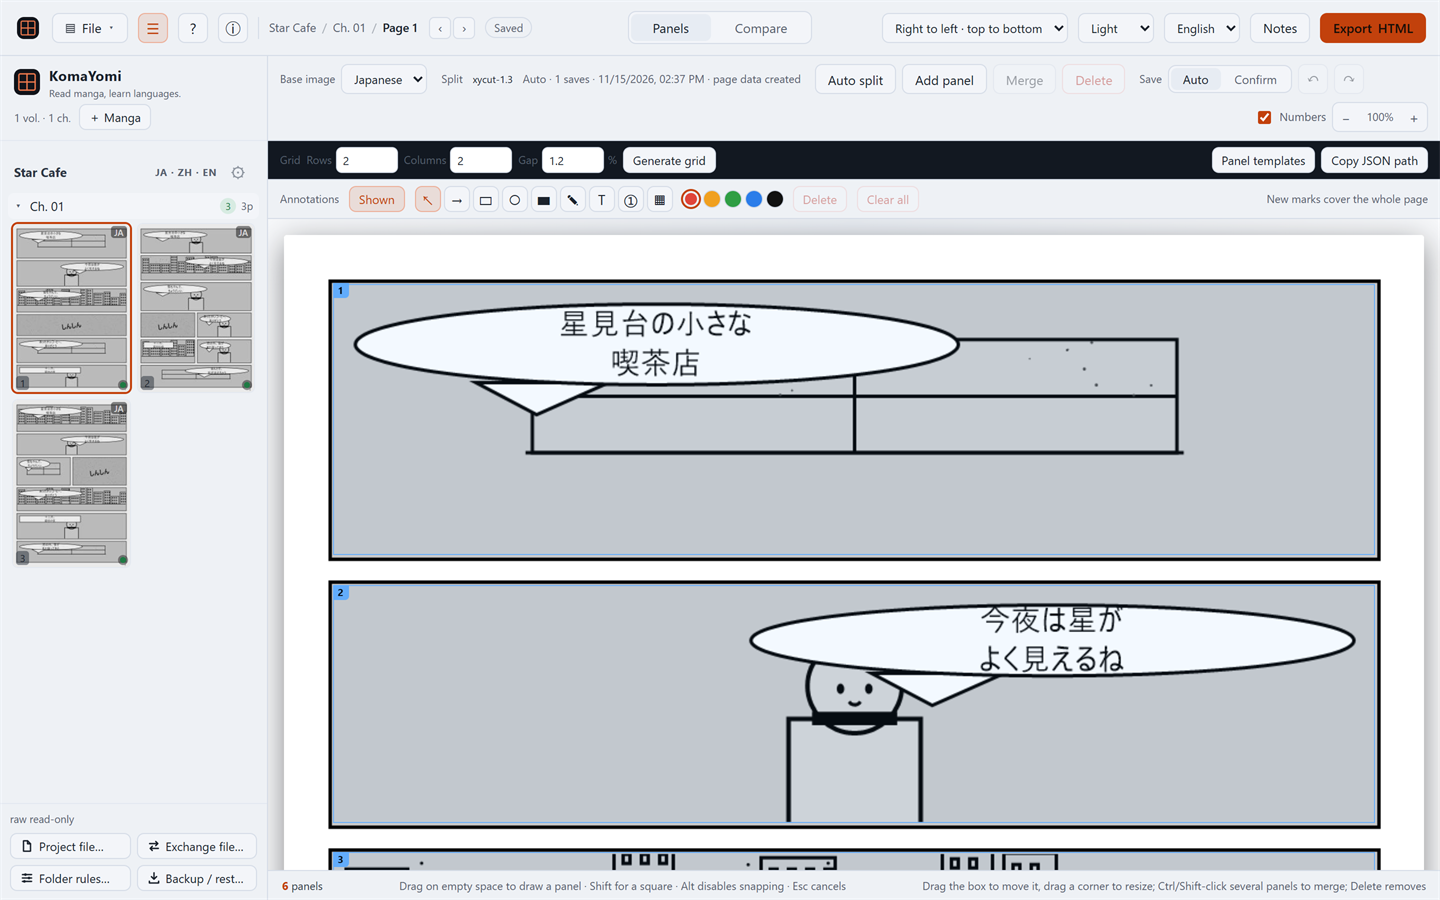
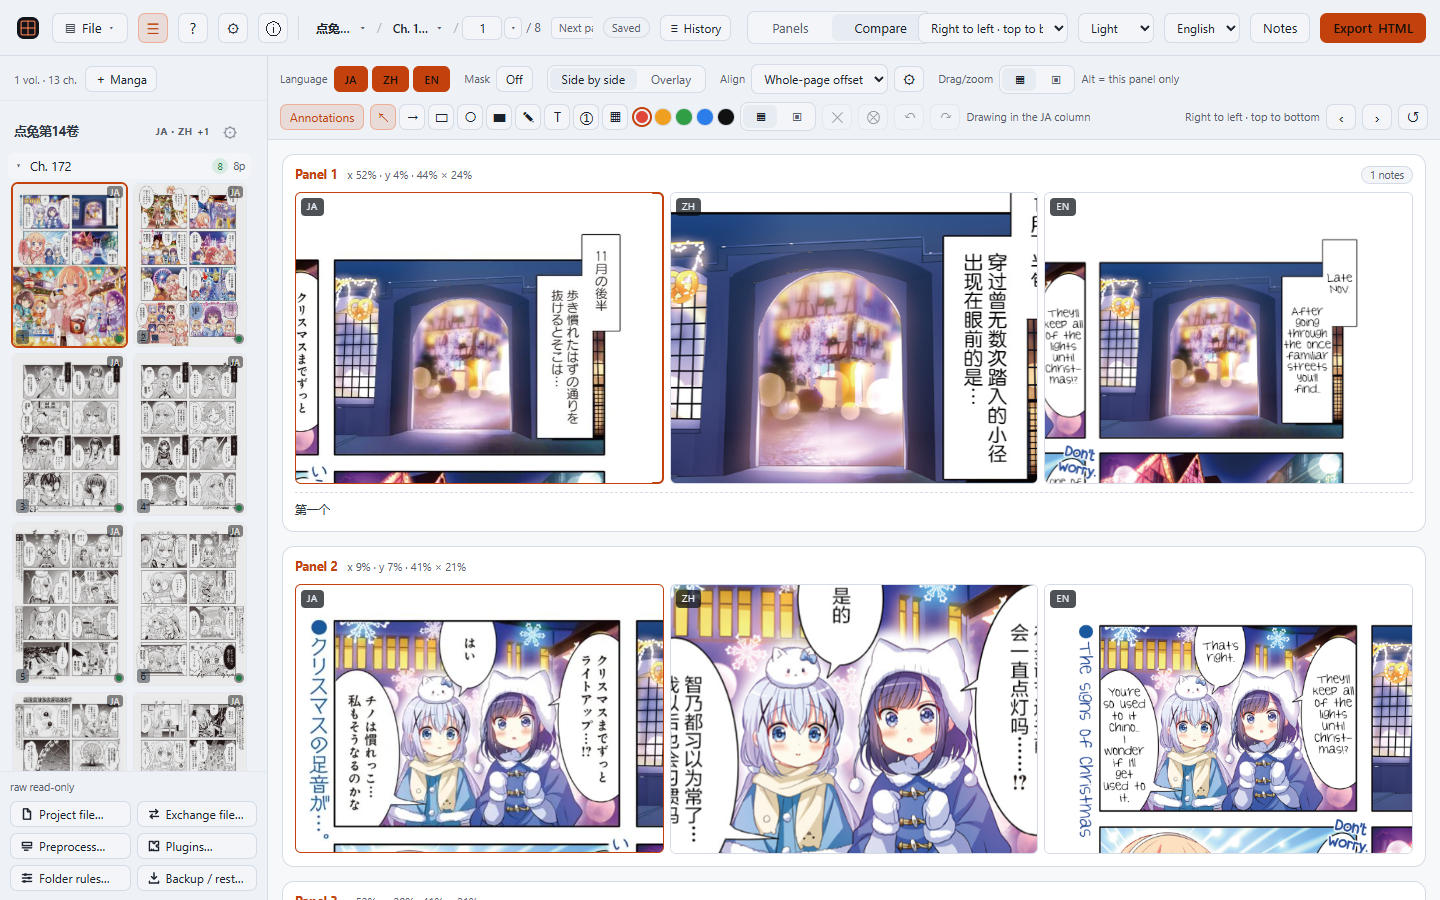
docs: replace README screenshots with real app captures
Use the local demo volume for the eight README screenshots.

Note that the sample manga is for demonstration only.

diff --git a/README.md b/README.md
@@ -38,7 +38,7 @@ _Export: HTML for a page or a whole chapter, with an image folder or as a single
 
 _Below 1024 px the library becomes a drawer and the compare panes stack. The web build is installable as a PWA._
 
-All captures use the self-made sample volume in [`samples/demo-library/`](samples/demo-library/README.md) — three pages in Japanese, Chinese and English, drawn by a script for this project and released as CC0. No third-party manga is included.
+Sample manga is used for demonstration only; all rights belong to the original author.
 
 ## Features
 
@@ -257,4 +257,4 @@ What to expect when it does:
 
 KomaYomi is built by **PayayaKamo** and released under the [MIT License](LICENSE).
 
-KomaYomi is an independent project and is not affiliated with, endorsed by, or connected to any similarly named project, product or organization. The manga pages in the screenshots come from the self-made sample volume under `samples/demo-library/` (CC0); the repository ships no third-party manga.
+KomaYomi is an independent project and is not affiliated with, endorsed by, or connected to any similarly named project, product or organization. The manga pages in the screenshots are used for demonstration only; all rights belong to the original author. The repository ships no third-party manga.
